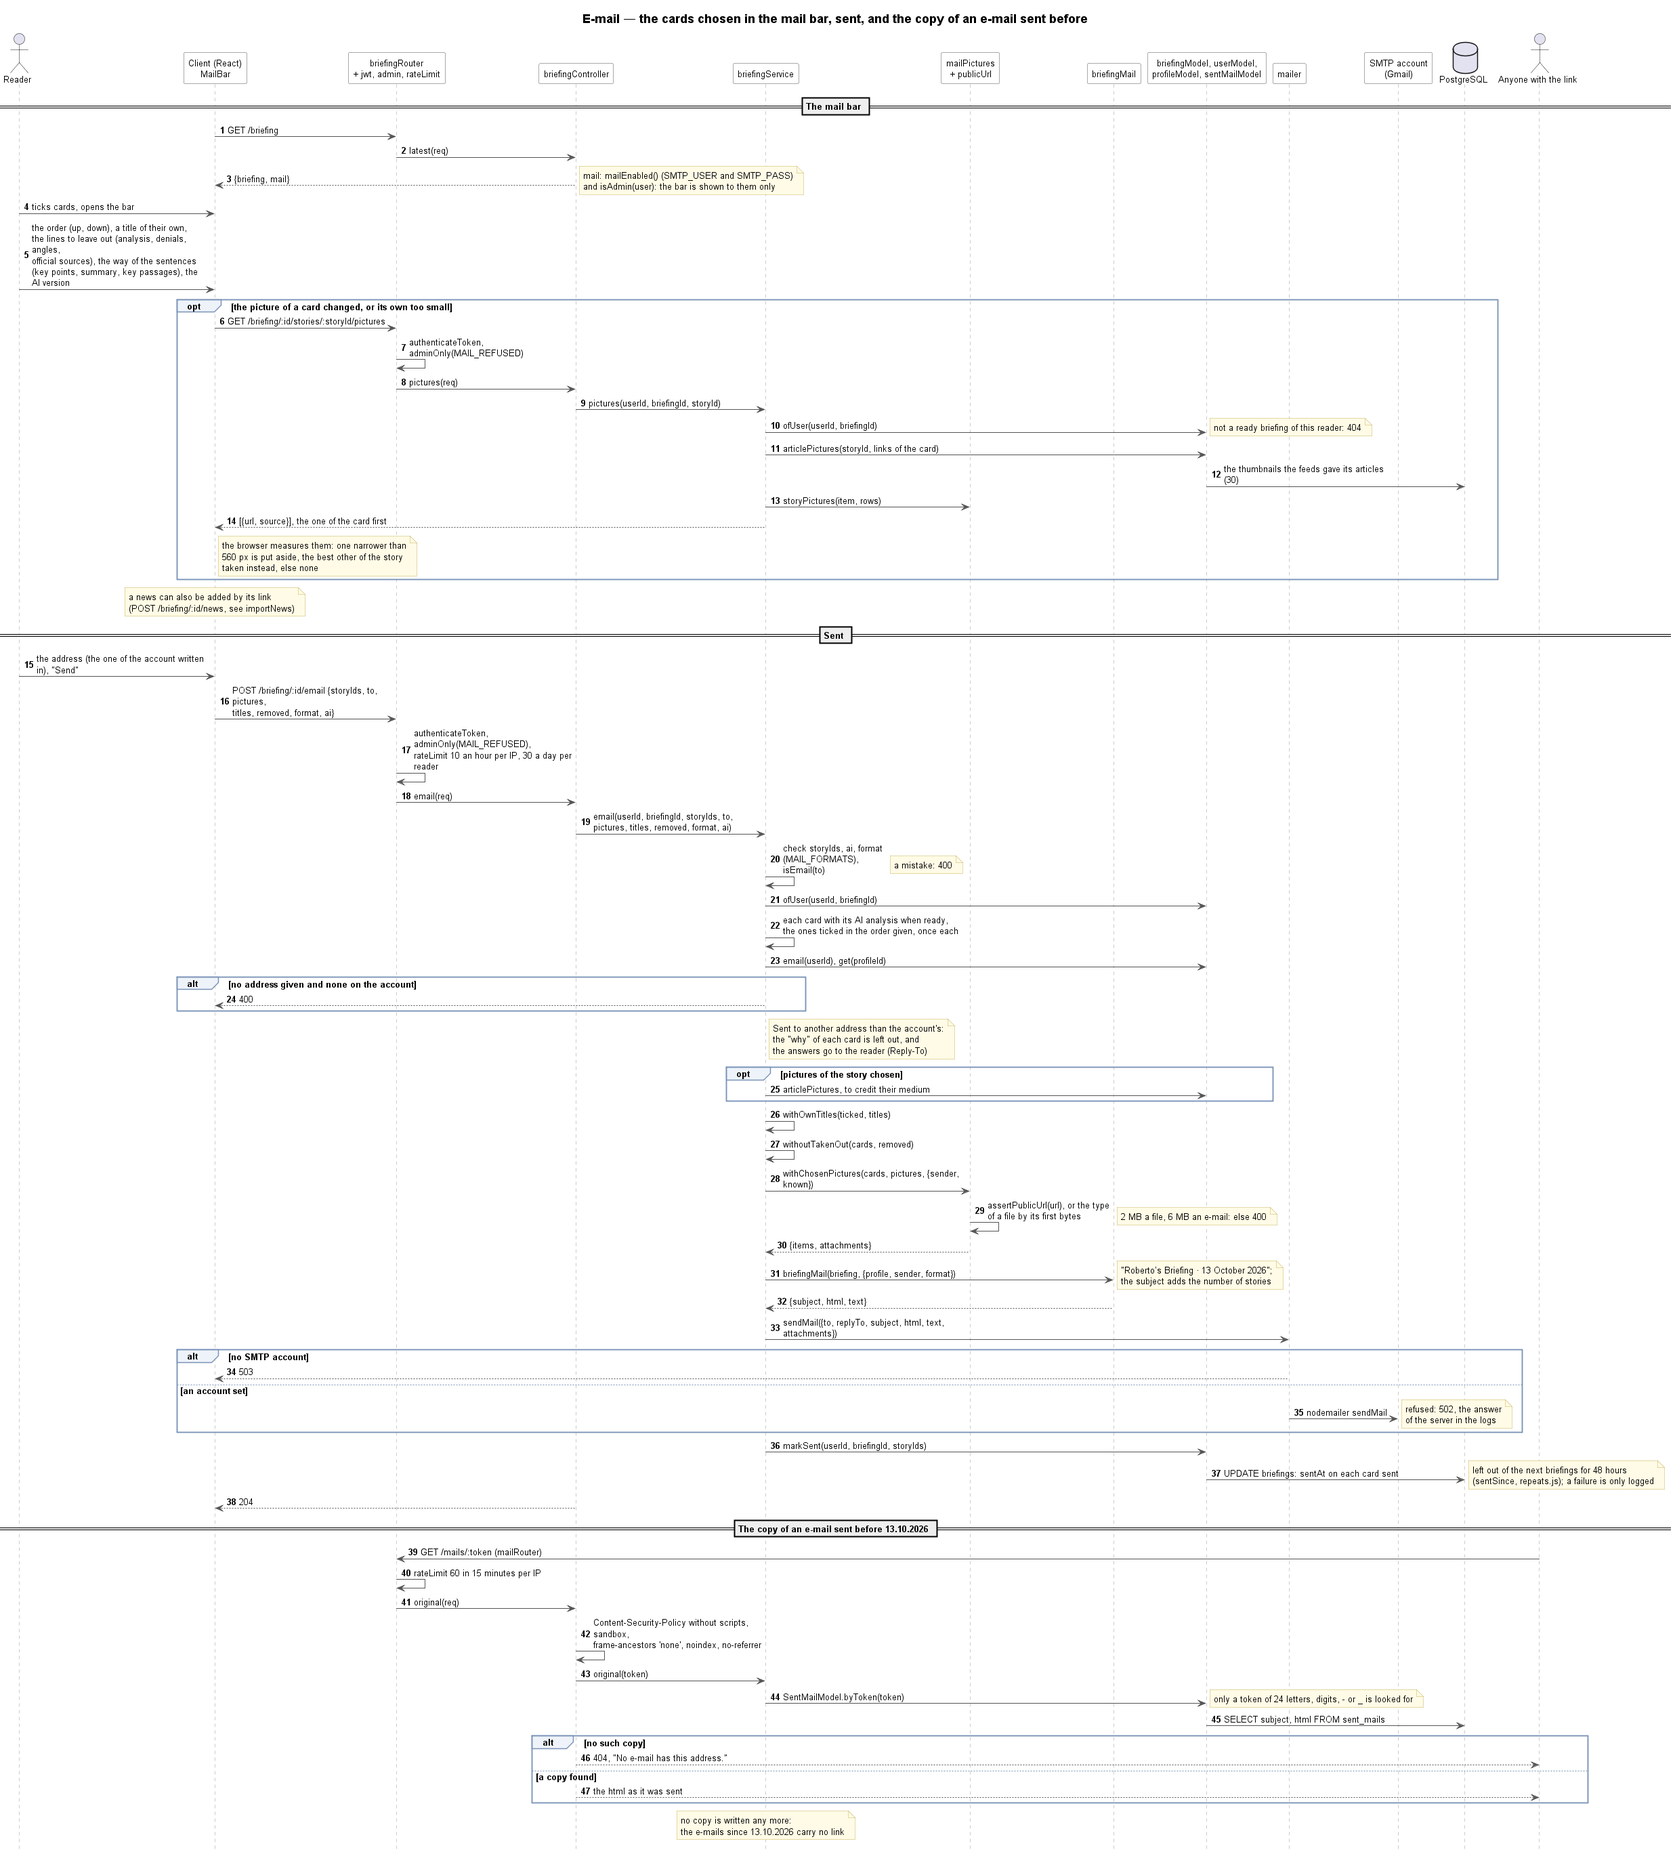
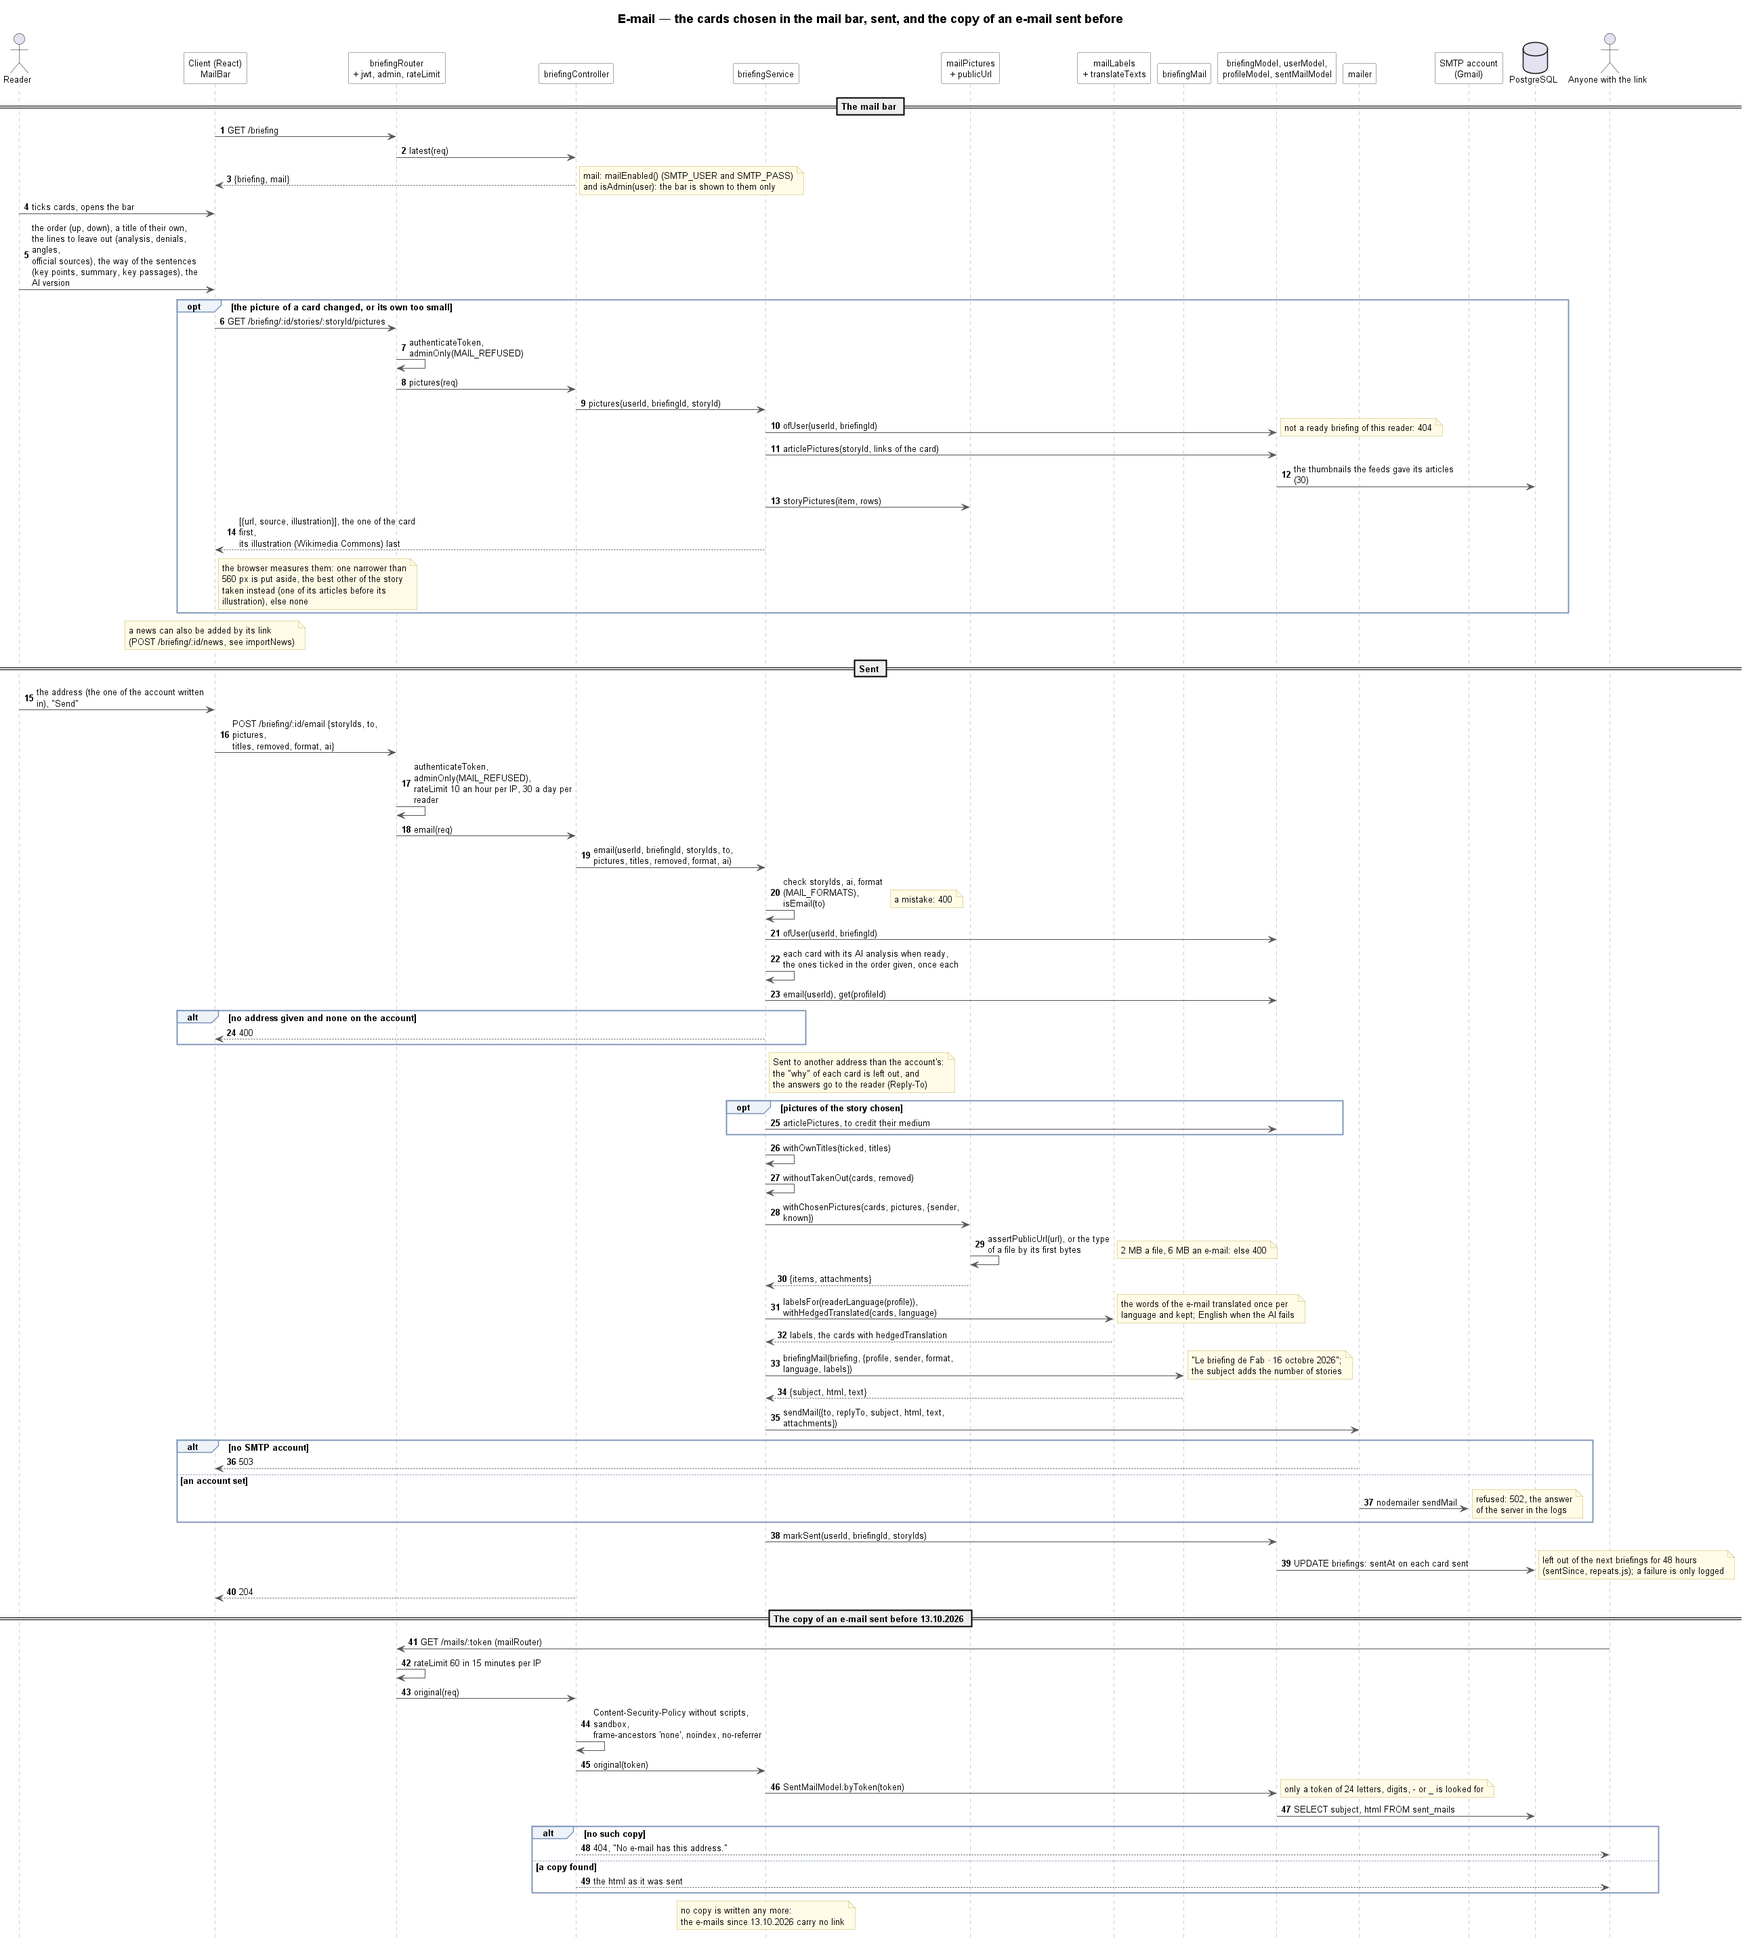
Docs: the page's picture first, illustrations, the e-mail in the reader's language
The briefing, e-mail, denials and official sources docs, the README and the
path of a news (parcours) say what changed on 18.10.2026: a card's picture
is its page's og:image before its feed's, an illustration of Wikimedia
Commons when none of its articles gives one, the words of the e-mail
translated once per language, who denies in the reader's language and the
titles of official posts translated. Diagrams rendered again.

diff --git a/docs/a-to-z/parcours-newsgenerator.html b/docs/a-to-z/parcours-newsgenerator.html
@@ -633,7 +633,8 @@ code { font-family: var(--mono); font-size: 0.86em; }
         <p>Maintenant seulement, les pages sont téléchargées : 5 articles par histoire au plus, un par média. L'article d'un média de confiance est lu en premier, puis celui dans la langue du lecteur.</p>
         <ul>
           <li>Le texte est extrait de la page comme le fait le mode lecture de Firefox. Depuis le 8 octobre, une simple lecture de la page d'abord, Crawlee seulement pour les pages manquées : ses en-têtes de navigateur inventés faisaient refuser L'Équipe, Le Télégramme ou phys.org.</li>
-          <li>Chaque carte garde l'article d'où viennent ses passages, et l'image de sa page (og:image) quand le flux n'en donnait pas.</li>
+          <li>Chaque carte garde l'article d'où viennent ses passages, et l'image de sa page (og:image) avant celle du flux, souvent une miniature (18 octobre : 116 cartes sur 142 avec une image d'au moins 560 pixels au lieu de 98). L'image qu'un site met à toutes ses pages sans photo (« default », « logo ») n'est jamais prise.</li>
+          <li>Sans image d'aucun de ses articles, une carte prend son illustration : la photo que Wikimedia Commons a de la personne, sinon de l'organisation, que ses articles nomment le plus, légendée « Illustration » avec son auteur et sa licence (18 octobre).</li>
           <li>Un lien Google News n'est qu'une redirection : au plus 10 adresses réelles demandées par briefing (Google bloque vers 40 par heure).</li>
           <li>Mesuré : 85 % des articles lisibles (60 mots ou plus), 96 % des histoires en ont au moins un.</li>
           <li>Une histoire dont aucune page n'est lisible (un paywall, un site protégé), ou que la relecture retire (C6), ne devient jamais une carte : la suivante de la réserve prend sa place, lue à son tour, en 2 tours au plus. Sans réserve, le briefing montre moins de cartes plutôt qu'une carte vide.</li>
@@ -837,9 +838,9 @@ code { font-family: var(--mono); font-size: 0.86em; }
       <div class="no">D4</div>
       <div class="body">
         <h3>Envoyer des cartes par e-mail</h3>
-        <p>Pour les administrateurs : le lecteur coche des cartes, les met dans l'ordre voulu, choisit comment elles se lisent (passages clés, points ou résumé, et la version de l'IA carte par carte) et les envoie à son adresse ou à une autre. L'e-mail reprend la mise en page du site et n'appelle aucune IA : il reprend ce que le briefing a écrit.</p>
+        <p>Pour les administrateurs : le lecteur coche des cartes, les met dans l'ordre voulu, choisit comment elles se lisent (passages clés, points ou résumé, et la version de l'IA carte par carte) et les envoie à son adresse ou à une autre. L'e-mail reprend la mise en page du site et ce que le briefing a écrit, entièrement dans la langue du lecteur : ses propres mots (« Key points », « Contested »…) sont traduits par l'IA une fois par langue, ses dates écrites dans cette langue (18 octobre).</p>
         <ul>
-          <li>Pour chaque carte : un autre titre, une autre image (celles de l'histoire, une adresse ou un fichier), sans les démentis ou les angles qu'il retire. Seules les images d'au moins 560 pixels de large sont proposées ; une image trop petite est remplacée par la meilleure de l'histoire.</li>
+          <li>Pour chaque carte : un autre titre, une autre image (celles de l'histoire, une adresse ou un fichier), sans les démentis ou les angles qu'il retire. Seules les images d'au moins 560 pixels de large sont proposées ; une image trop petite est remplacée par la meilleure de l'histoire, une photo de ses articles avant son illustration.</li>
           <li>Titre au nom du profil et du jour, « Roberto’s Briefing · 13 October 2026 », jamais celui du compte ; objet « Fab's Briefing · 16 October 2026 · 2 stories ». Envoyé à une autre adresse, la raison du choix de chaque carte est retirée et une réponse va au lecteur.</li>
           <li>Chaque carte porte son analyse, ligne par ligne (15 octobre), et sa source officielle dans un encadré juste sous ses phrases (16 octobre). Rien ne dit ce qui est traduit (16 octobre). Le lecteur peut retirer une ligne : un démenti, un angle, une source officielle, une ligne d'analyse.</li>
           <li>Les cartes envoyées sont marquées : leurs histoires ne reviennent pas dans les briefings des 48 heures suivantes, sauf comme suite (C1).</li>

diff --git a/docs/a-to-z/parcours-newsgenerator.md b/docs/a-to-z/parcours-newsgenerator.md
@@ -276,7 +276,8 @@ Deux appels partent ensemble. Le premier garde, dans chaque histoire, les articl
 Maintenant seulement, les pages sont téléchargées : 5 articles par histoire au plus, un par média. L'article d'un média de confiance est lu en premier, puis celui dans la langue du lecteur.
 
 - Le texte est extrait de la page comme le fait le mode lecture de Firefox. Depuis le 8 octobre, une simple lecture de la page d'abord, Crawlee seulement pour les pages manquées : ses en-têtes de navigateur inventés faisaient refuser L'Équipe, Le Télégramme ou phys.org.
-- Chaque carte garde l'article d'où viennent ses passages, et l'image de sa page (og:image) quand le flux n'en donnait pas.
+- Chaque carte garde l'article d'où viennent ses passages, et l'image de sa page (og:image) avant celle du flux, souvent une miniature (18 octobre : 116 cartes sur 142 avec une image d'au moins 560 pixels au lieu de 98). L'image qu'un site met à toutes ses pages sans photo (« default », « logo ») n'est jamais prise.
+- Sans image d'aucun de ses articles, une carte prend son illustration : la photo que Wikimedia Commons a de la personne, sinon de l'organisation, que ses articles nomment le plus, légendée « Illustration » avec son auteur et sa licence (18 octobre).
 - Un lien Google News n'est qu'une redirection : au plus 10 adresses réelles demandées par briefing (Google bloque vers 40 par heure).
 - Mesuré : 85 % des articles lisibles (60 mots ou plus), 96 % des histoires en ont au moins un.
 - Une histoire dont aucune page n'est lisible (un paywall, un site protégé), ou que la relecture retire (C6), ne devient jamais une carte : la suivante de la réserve prend sa place, lue à son tour, en 2 tours au plus. Sans réserve, le briefing montre moins de cartes plutôt qu'une carte vide.
@@ -392,9 +393,9 @@ Une seule liste, une seule page Following (13 octobre) : des fiches de Wikidata 
 
 ### D4 · Envoyer des cartes par e-mail
 
-Pour les administrateurs : le lecteur coche des cartes, les met dans l'ordre voulu, choisit comment elles se lisent (passages clés, points ou résumé, et la version de l'IA carte par carte) et les envoie à son adresse ou à une autre. L'e-mail reprend la mise en page du site et n'appelle aucune IA : il reprend ce que le briefing a écrit.
+Pour les administrateurs : le lecteur coche des cartes, les met dans l'ordre voulu, choisit comment elles se lisent (passages clés, points ou résumé, et la version de l'IA carte par carte) et les envoie à son adresse ou à une autre. L'e-mail reprend la mise en page du site et ce que le briefing a écrit, entièrement dans la langue du lecteur : ses propres mots (« Key points », « Contested »…) sont traduits par l'IA une fois par langue, ses dates écrites dans cette langue (18 octobre).
 
-- Pour chaque carte : un autre titre, une autre image (celles de l'histoire, une adresse ou un fichier), sans les démentis ou les angles qu'il retire. Seules les images d'au moins 560 pixels de large sont proposées ; une image trop petite est remplacée par la meilleure de l'histoire.
+- Pour chaque carte : un autre titre, une autre image (celles de l'histoire, une adresse ou un fichier), sans les démentis ou les angles qu'il retire. Seules les images d'au moins 560 pixels de large sont proposées ; une image trop petite est remplacée par la meilleure de l'histoire, une photo de ses articles avant son illustration.
 - Titre au nom du profil et du jour, « Roberto’s Briefing · 13 October 2026 », jamais celui du compte ; objet « Fab's Briefing · 16 October 2026 · 2 stories ». Envoyé à une autre adresse, la raison du choix de chaque carte est retirée et une réponse va au lecteur.
 - Chaque carte porte son analyse, ligne par ligne (15 octobre), et sa source officielle dans un encadré juste sous ses phrases (16 octobre). Rien ne dit ce qui est traduit (16 octobre). Le lecteur peut retirer une ligne : un démenti, un angle, une source officielle, une ligne d'analyse.
 - Les cartes envoyées sont marquées : leurs histoires ne reviennent pas dans les briefings des 48 heures suivantes, sauf comme suite (C1).

diff --git a/docs/briefing/denials/README.md b/docs/briefing/denials/README.md
@@ -28,7 +28,7 @@ at most, of two different deniers; most cards have none.
   (`MAX_CANDIDATES`), in the order the articles are read.
 - No such sentence: no call, no denial. Otherwise one call (`ollamaJson`, gemma4:31b, Gemini when Ollama fails)
   with the card's title and the sentences, each with its medium. For each sentence the AI answers who denies by
-  name (`denied_by`), the claim, whether it is about them (`self`), whether it is the card's own news (`about`
+  name, in the reader's language since 18.10.2026 (`denied_by`, asked in English before), the claim, whether it is about them (`self`), whether it is the card's own news (`about`
   "main" or "side") and whether the sentence reports a denial as a fact ("did not deny", a refusal, an opinion,
   a journalist's analysis are not).
 - The code keeps a sentence only when `denial` and `self` are true, `about` is "main" and a name is given, each
@@ -42,7 +42,8 @@ at most, of two different deniers; most cards have none.
 - In the e-mail, `MailAside` lists the card's denials, each with a box; the ones unticked go to
   `removed: {storyId: {contested: [index]}}`, and `withoutTakenOut` drops them before `briefingMail` writes
   "Contested" (`contestedHtml`). In the e-mail the translation is shown in place of the original sentence when
-  there is one.
+  there is one, and "Contested" and "X denies:" are in the reader's language (`labelsFor`, see
+  [e-mail](../email/README.md)).
 
 The denials do not depend on the way the card is read: they are shown under the key passages, the summary or the
 bullet points alike.

diff --git a/README.md b/README.md
@@ -1470,7 +1470,16 @@ is kept any more. The links of the e-mails sent before still lead to theirs (`GE
 The pictures offered for an e-mail are the ones at least 560 pixels wide, the width of the picture in the
 e-mail: 49 of the 289 pictures of 6 briefings were narrower, some 72 pixels (`bench/picture-sizes.mjs`).
 The browser measures them as it loads them (client `mailPictures.js`); a card whose own picture is too
-small gets the best other of its story (lying before standing, the widest), else none.
+small gets the best other of its story (one of its articles before its illustration, lying before
+standing, the widest), else none.
+
+Since 18.10.2026 the picture of a card is the one its article's page gives to be shared (`og:image`)
+before its feed's, often a thumbnail: of 142 cards of 12 briefings, 116 have one of 560 pixels or more
+instead of 98. A card none of whose articles gives a picture takes its **illustration**
+(`services/utils/illustrations.js`): the picture Wikimedia Commons has (Wikidata P18) of the person its
+articles name most, else of the organisation, 560 pixels wide at least, captioned "Illustration —
+Wikimedia Commons · author, licence", never taken by the e-mail before a sharp picture of its articles.
+Of 200 cards, 86 have one; an organisation's is its building (the seat of UEFA).
 
 [//]: # (How to set up the database?)
 

diff --git a/docs/briefing/README.md b/docs/briefing/README.md
@@ -36,7 +36,14 @@ saved in `briefings.step` and shown on the page while it runs:
 6. **angles**: five parts together, none of which can fail the briefing: the [other angles](other-angles/README.md),
    the [official sources](official-source/README.md), the news of what the profile follows, the names shown
    on each card, and the AI version of the points and summary of the cards kept (asked of every story read until
-   17.10.2026, the ones unreadable or left out by `reviewCards` too).
+   17.10.2026, the ones unreadable or left out by `reviewCards` too). Then the illustration of each card
+   (`illustrationsOf`, since 18.10.2026): the picture Wikimedia Commons has of the person, else the
+   organisation, its names are, used as its picture only when none of its articles gives one.
+
+The picture of a card (`pictureOf`) is the one its article's page gives to be shared (`og:image`) first, the one
+its feed gave after (since 18.10.2026: often a thumbnail); a site's picture for pages without one is never taken.
+Without either, its illustration, captioned "Illustration" and credited to its author and licence (see
+[e-mail](email/README.md)).
 
 Then the cards are saved (`briefings.items`, status `ready`), and the [analysis](analysis-ia/README.md) starts,
 not awaited (`briefings.analysis`, the client asking every 8 s while it runs).

diff --git a/docs/briefing/official-source/README.md b/docs/briefing/official-source/README.md
@@ -45,7 +45,8 @@ read, and the sites of most big clubs publish no feed.
   twice, the sentences reversed the second time; kept when both answers say the party itself said the
   card's own fact (`confirmingOf`).
 - `withStatements`: the posts first, then the statements of the parties with no post, 2 at most
-  (`MAX_OFFICIAL`). A statement in another language than the reader's is translated; a post read through
+  (`MAX_OFFICIAL`). A statement in another language than the reader's is translated, and since 18.10.2026 the
+  title of a post too (its language told by its title, `languageOf`), shown in place of it in the e-mail; a post read through
   Google News gets the address of the site (`withSiteLinks`, saved with `saveResolvedLinks`). The party is
   named as its item says it (`partyName`: its acronym, else the AI's name, else the English label).
 - Left out on purpose: YouTube (a title, no statement) and a denial by a party (see the measures).
